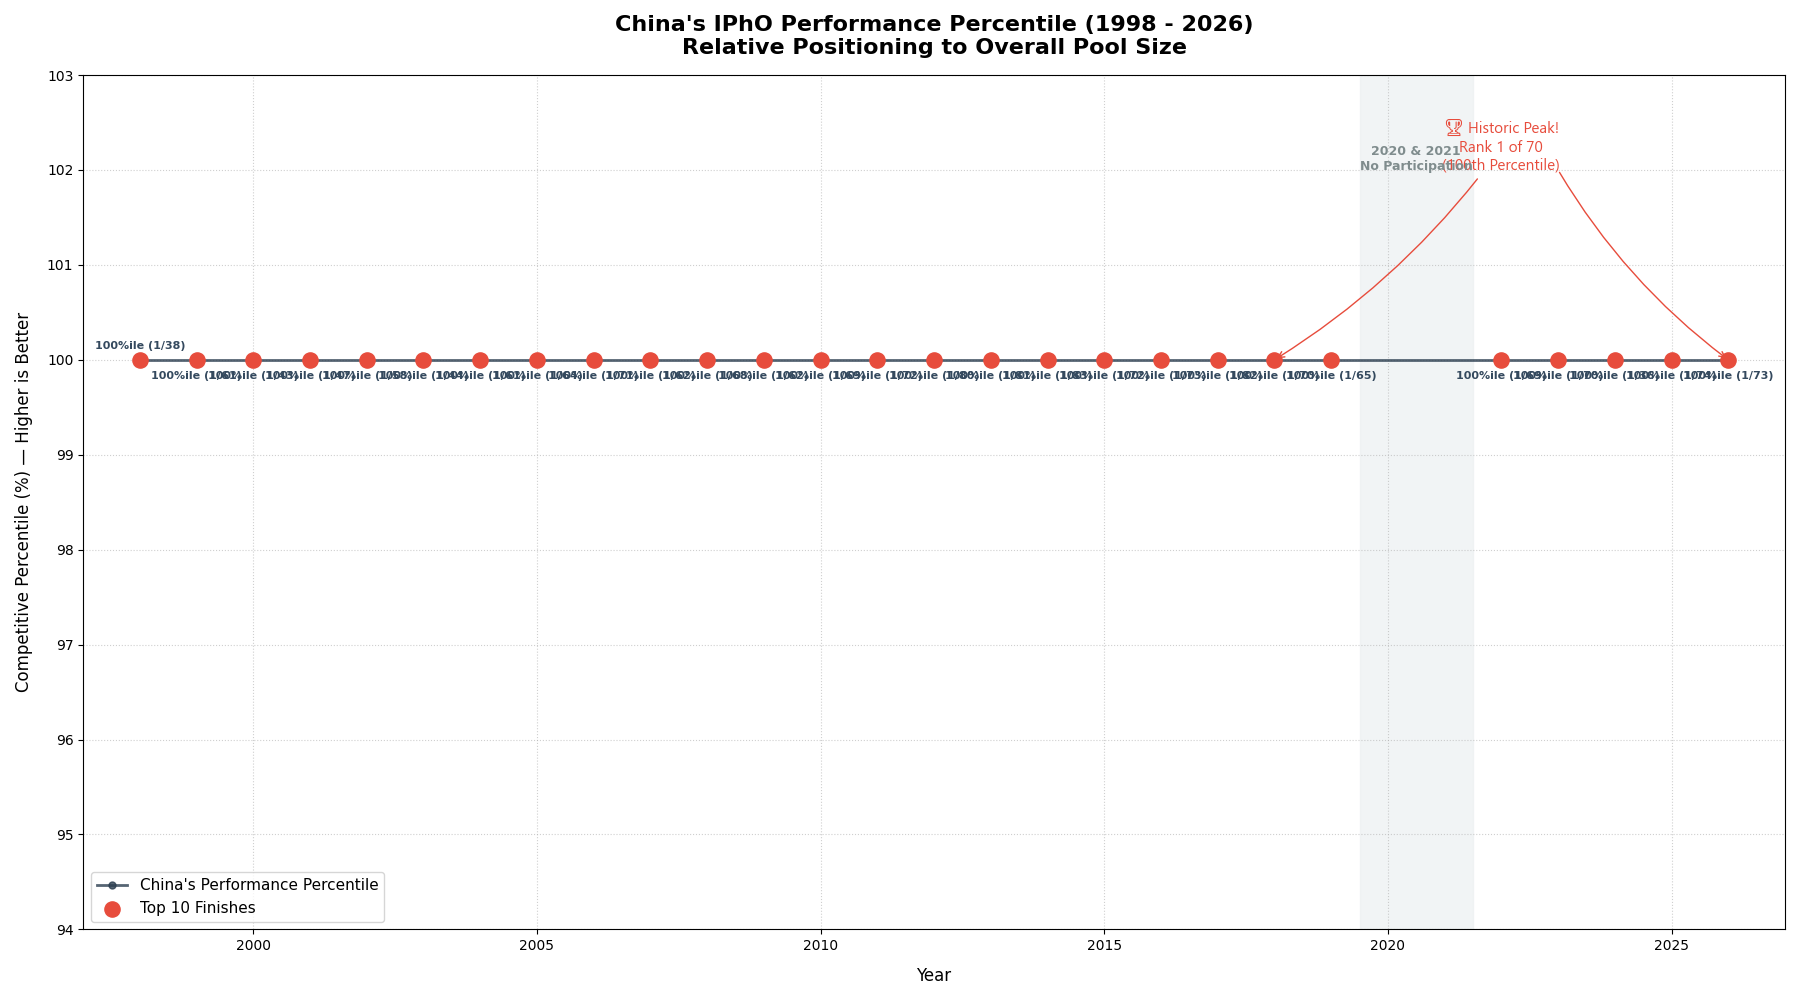
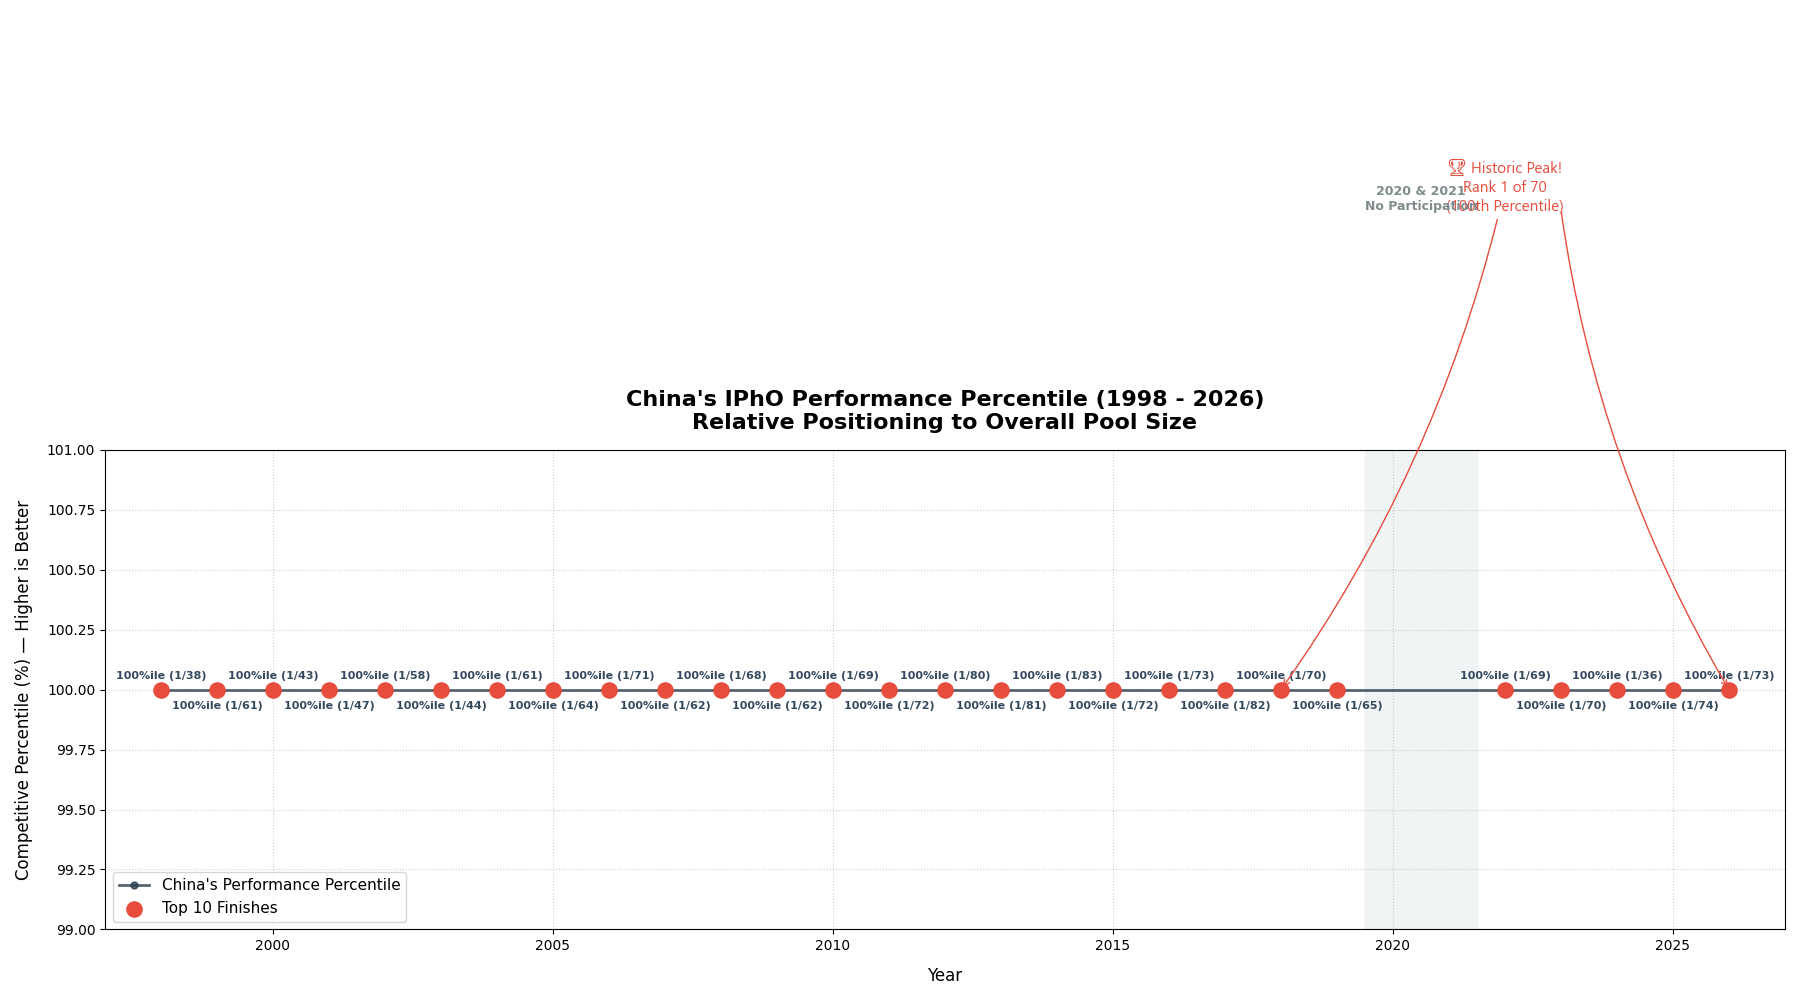
plots_fix

diff --git a/china_imo_percentile.py b/china_imo_percentile.py
@@ -76,10 +76,10 @@ for i, row in df.iterrows():
     pct = row["Percentile"]
 
     # Toggle text positions slightly to avoid visual overlap
-    if pct > prepct:
-        yano = 8
+    if i % 2 == 0:
+        yano = 8 + 5*(5*(i%5))
     else:
-        yano = -14
+        yano = -14 - 5*(5*(i%5))
     xy_text_offset = (0, yano)  # if rank % 2 == 0 else (0, -14)
 
     plt.annotate(
@@ -132,7 +132,7 @@ plt.title(
 plt.xlabel("Year", fontsize=12, labelpad=10)
 plt.ylabel("Competitive Percentile (%) — Higher is Better", fontsize=12, labelpad=10)
 plt.xlim(imo_data[0][0] - 1, imo_data[-1][0] + 1)
-plt.ylim(minpct - 6, 103)
+plt.ylim(minpct - 1, 101)
 plt.grid(True, linestyle=":", alpha=0.6)
 plt.legend(loc="lower left", fontsize=11)
 

diff --git a/plot_olympiad.py b/plot_olympiad.py
@@ -256,10 +256,10 @@ def plot_olympiad(name):
         pct = row["Percentile"]
 
         # Toggle text positions slightly to avoid visual overlap
-        if pct > prepct:
-            yano = 8
+        if i % 2 == 0:
+            yano = 8 + 5*(i%5)
         else:
-            yano = -14
+            yano = -14 - 5*(i%5)
         xy_text_offset = (0, yano)
 
         plt.annotate(
@@ -373,7 +373,7 @@ def plot_olympiad(name):
     )
 
     plt.xlim(data[0][0] - 1, data[-1][0] + 1)
-    plt.ylim(minpct - 6, 103)
+    plt.ylim(minpct - 1, 101)
     plt.grid(True, linestyle=":", alpha=0.6)
     plt.legend(loc="lower left", fontsize=11)
 

diff --git a/china_icho_percentile.py b/china_icho_percentile.py
@@ -65,7 +65,7 @@ for i, row in df.iterrows():
     pct = row["Percentile"]
 
     # Toggle text positions slightly to avoid visual overlap
-    if pct > prepct:
+    if i % 2 == 0:
         yano = 8
     else:
         yano = -14
@@ -121,7 +121,7 @@ plt.title(
 plt.xlabel("Year", fontsize=12, labelpad=10)
 plt.ylabel("Competitive Percentile (%) — Higher is Better", fontsize=12, labelpad=10)
 plt.xlim(icho_data[0][0] - 1, icho_data[-1][0] + 1)
-plt.ylim(minpct - 6, 103)
+plt.ylim(minpct - 1, 101)
 plt.grid(True, linestyle=":", alpha=0.6)
 plt.legend(loc="lower left", fontsize=11)
 

diff --git a/china_ioaa_percentile.py b/china_ioaa_percentile.py
@@ -57,7 +57,7 @@ for i, row in df.iterrows():
     pct = row["Percentile"]
 
     # Toggle text positions slightly to avoid visual overlap
-    if pct > prepct:
+    if i % 2 == 0:
         yano = 8
     else:
         yano = -14
@@ -131,7 +131,7 @@ plt.title(
 plt.xlabel("Year", fontsize=12, labelpad=10)
 plt.ylabel("Competitive Percentile (%) — Higher is Better", fontsize=12, labelpad=10)
 plt.xlim(ioaa_data[0][0] - 1, ioaa_data[-1][0] + 1)
-plt.ylim(minpct - 6, 103)
+plt.ylim(minpct - 1, 101)
 plt.grid(True, linestyle=":", alpha=0.6)
 plt.legend(loc="lower left", fontsize=11)
 

diff --git a/china_ipho_percentile.py b/china_ipho_percentile.py
@@ -66,7 +66,7 @@ for i, row in df.iterrows():
     pct = row["Percentile"]
 
     # Toggle text positions slightly to avoid visual overlap
-    if pct > prepct:
+    if i % 2 == 0:
         yano = 8
     else:
         yano = -14
@@ -141,7 +141,7 @@ plt.title(
 plt.xlabel("Year", fontsize=12, labelpad=10)
 plt.ylabel("Competitive Percentile (%) — Higher is Better", fontsize=12, labelpad=10)
 plt.xlim(ipho_data[0][0] - 1, ipho_data[-1][0] + 1)
-plt.ylim(minpct - 6, 103)
+plt.ylim(minpct - 1, 101)
 plt.grid(True, linestyle=":", alpha=0.6)
 plt.legend(loc="lower left", fontsize=11)
 

diff --git a/china_ibo_percentile.py b/china_ibo_percentile.py
@@ -65,7 +65,7 @@ for i, row in df.iterrows():
     pct = row["Percentile"]
 
     # Toggle text positions slightly to avoid visual overlap
-    if pct > prepct:
+    if i % 2 == 0:
         yano = 8
     else:
         yano = -14
@@ -121,7 +121,7 @@ plt.title(
 plt.xlabel("Year", fontsize=12, labelpad=10)
 plt.ylabel("Competitive Percentile (%) — Higher is Better", fontsize=12, labelpad=10)
 plt.xlim(ibo_data[0][0] - 1, ibo_data[-1][0] + 1)
-plt.ylim(minpct - 6, 103)
+plt.ylim(minpct - 1, 101)
 plt.grid(True, linestyle=":", alpha=0.6)
 plt.legend(loc="lower left", fontsize=11)
 

diff --git a/china_ioi_percentile.py b/china_ioi_percentile.py
@@ -64,7 +64,7 @@ for i, row in df.iterrows():
     pct = row["Percentile"]
 
     # Toggle text positions slightly to avoid visual overlap
-    if pct > prepct:
+    if i % 2 == 0:
         yano = 8
     else:
         yano = -14
@@ -121,7 +121,7 @@ plt.xlabel("Year", fontsize=12, labelpad=10)
 plt.ylabel("Competitive Percentile (%) — Higher is Better", fontsize=12, labelpad=10)
 
 plt.xlim(ioi_data[0][0] - 1, ioi_data[-1][0] + 1)
-plt.ylim(minpct - 6, 103)
+plt.ylim(minpct - 1, 101)
 plt.grid(True, linestyle=":", alpha=0.6)
 plt.legend(loc="lower left", fontsize=11)
 
